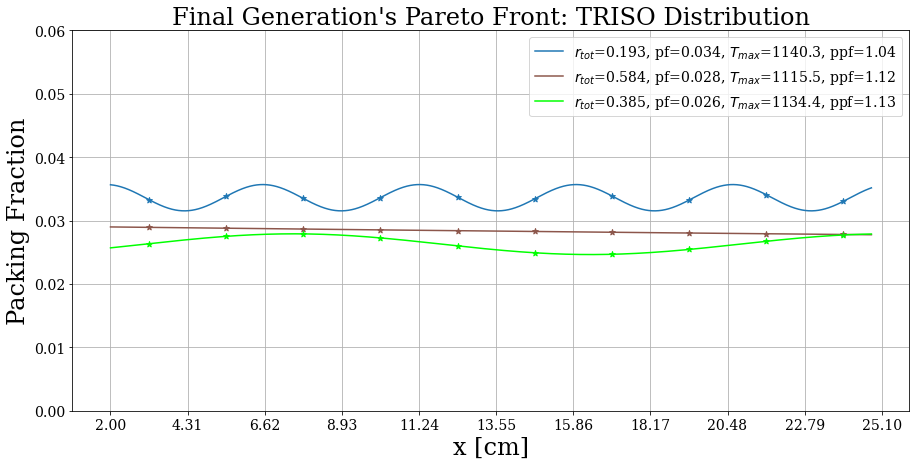
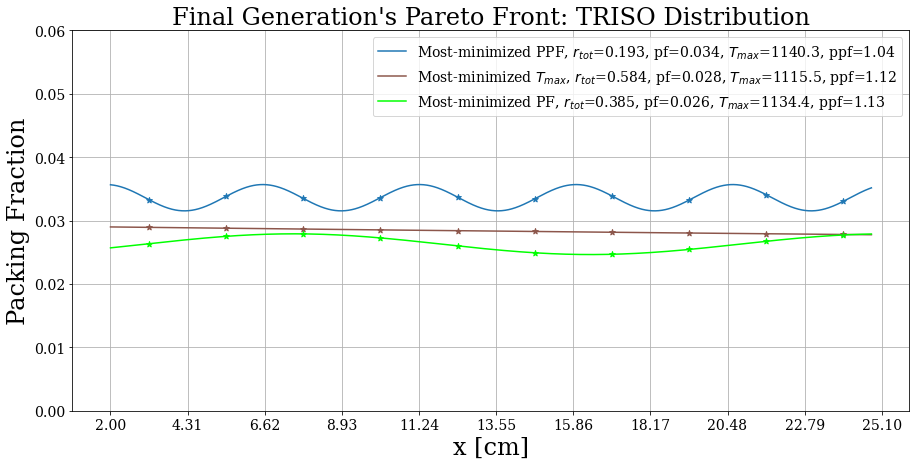
more writing

Changed region(s): [[0.3974, 0.0901, 0.9782, 0.2403], [0.9476, 0.1502, 0.9782, 0.1803], [0.8865, 0.1502, 0.917, 0.1803]]

diff --git a/docs/ahtr_rollo_slab.tex b/docs/ahtr_rollo_slab.tex
@@ -693,6 +693,7 @@ Table \ref{tab:simulationp3a} shows simulation p-3a's optimization problem param
     \hline
     \end{tabular}
 \end{table}
+
 Figure \ref{fig:slab-obj-3-3d} shows a 3D plot of the final generation's reactor models' 
 total packing fraction against maximum plank temperature against normalized power 
 peaking factor, crosses mark the reactor models that fall on the pareto front.
@@ -717,6 +718,7 @@ the final generation that fall on the pareto front.
     Input parameters varied: Total PF, TRISO distribution.}
     \label{fig:slab-obj-3}
 \end{figure}
+
 Figure \ref{fig:slab-obj-3-3d} demonstrates that \gls{ROLLO} found 14 widely spread 
 solutions in the final generation's Pareto front. 
 Figure \ref{fig:slab-obj-3-distr} demonstrates that the TRISO distributions on the
@@ -766,11 +768,13 @@ Table \ref{tab:simulationp3b} shows simulation p-3b's optimization problem param
     \hline
     \end{tabular}
 \end{table}
+
 Figure \ref{fig:slab-obj-3-3d-all} shows a 3D plot of the final generation's reactor 
 models' total packing fraction against maximum plank temperature against normalized
 power peaking factor, crosses mark the reactor models that fall on the pareto front.
-Figure \ref{fig:slab-obj-3-distr-all} shows the 13 TRISO distributions in 
-the final generation that fall on the pareto front. 
+Figure \ref{fig:slab-obj-3-distr-all} shows the 13 TRISO distributions and their
+total radius $(r_{top}, r_{bot})$ in the final generation that fall on the pareto 
+front. 
 \begin{figure}[htbp]
     \begin{subfigure}{\textwidth}
         \centering
@@ -792,6 +796,50 @@ the final generation that fall on the pareto front.
     \label{fig:slab-obj-3-all}
 \end{figure}
 
+Figure \ref{fig:slab-obj-3-3d-all} demonstrates that \gls{ROLLO} found 13 widely spread 
+solutions in the final generation's Pareto front. 
+Figure \ref{fig:slab-obj-3-distr-most-minimized-distr-all} shows the three distributions 
+from Figure \ref{fig:slab-obj-3-distr-all} that most-minimized each objective. 
+Figures \ref{fig:slab-obj-3-distr-most-minimized-pf-all}, \ref{fig:slab-obj-3-distr-most-minimized-temp-all}, 
+and \ref{fig:slab-obj-3-distr-most-minimized-ppf-all} show the \gls{AHTR} plank's TRISO 
+distribution and coolant channel shape for most-minimized cases. 
+\begin{figure}[htbp]
+    \begin{subfigure}{\textwidth}
+        \includegraphics[width=\linewidth]{slab-obj-3-distr-most-minimized-all.png}
+        \caption{TRISO distribution for the 3 reactor models on the pareto 
+        front that most minimized each objective.}
+        \label{fig:slab-obj-3-distr-most-minimized-distr-all}
+    \end{subfigure}
+    \begin{subfigure}{\textwidth}
+        \includegraphics[width=\linewidth]{plank-pf-min-4-1.png}
+        \caption{TRISO distribution and coolant channel shape that most minimized Total 
+        PF.}
+        \label{fig:slab-obj-3-distr-most-minimized-pf-all}
+    \end{subfigure}
+    \begin{subfigure}{\textwidth}
+        \includegraphics[width=\linewidth]{plank-temp-min-3-17.png}
+        \caption{TRISO distribution and coolant channel shape that most minimized 
+        $T_{max}$.}
+        \label{fig:slab-obj-3-distr-most-minimized-temp-all}
+    \end{subfigure}
+    \begin{subfigure}{\textwidth}
+        \includegraphics[width=\linewidth]{plank-ppf-min-1-42.png}
+        \caption{TRISO distribution and coolant channel shape that most minimized PPF.}
+        \label{fig:slab-obj-3-distr-most-minimized-ppf-all}
+    \end{subfigure}
+    \caption{Simulation p-3b -- ROLLO three-objective optimization to minimize total 
+    packing fraction, maximum slab temperature ($T_{max}$) and normalized power peaking 
+    factor (PPF) in the plank. 
+    Input parameters varied: Total PF, TRISO distribution, and coolant channel shape 
+    $(r_{top}, r_{bot})$.}
+    \label{fig:slab-obj-3-distr-most-minimized-all}
+\end{figure}
+The green distribution with sloping fuel packing distribution and $r_{tot} = 0.385cm$ 
+most-minimized total packing fraction. 
+The brown distribution with a mostly flat fuel distribution and $r_{tot} = 0.584cm$ 
+most-minimized $T_{max}$. 
+The blue distribution with small up-down fuel packing pattern and $r_{tot} = 0.193cm$ 
+most-minimized normalized power peaking factor. 
 
 \pagebreak
 \section{AHTR Plank: Computational Cost Summary}
@@ -846,8 +894,5 @@ solutions.
 This informs reactor designers of optimal reactor parameters for their defined objectives.  
 From here, reactor designers can conduct sensitivity analysis and use high fidelity 
 models to characterize a smaller section of the design space.
-
-
-
 
 \section{Summary}
